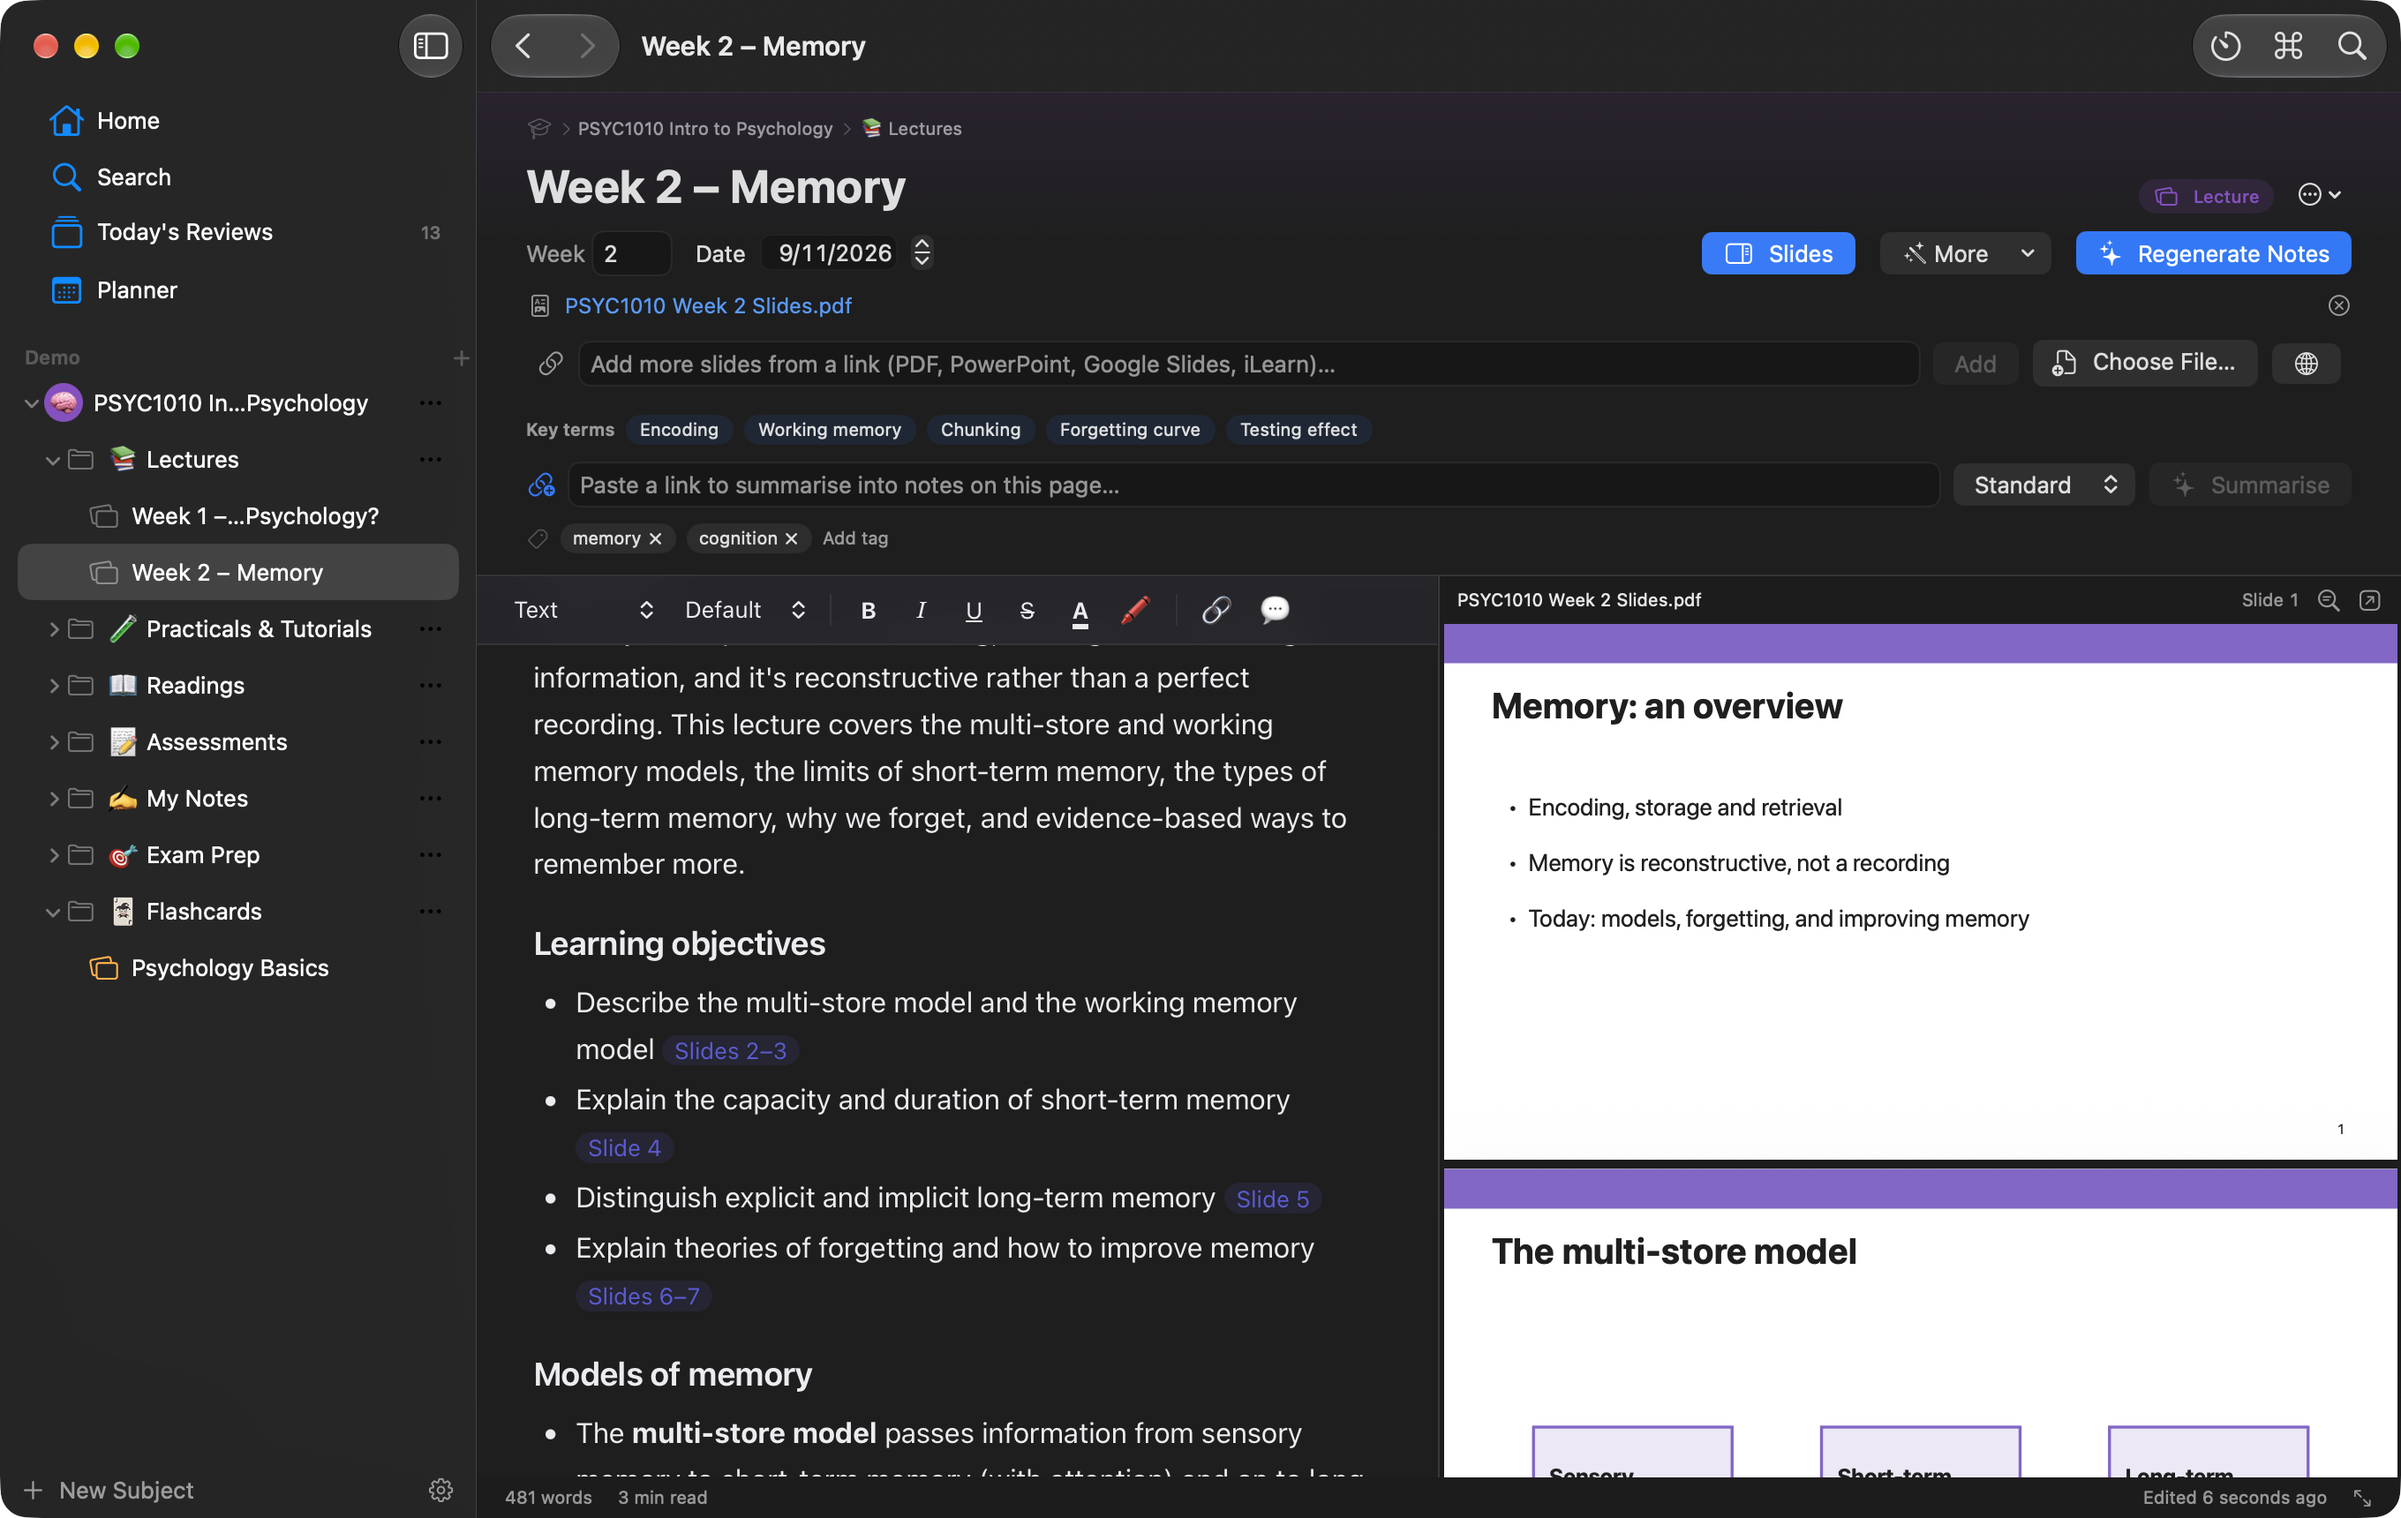
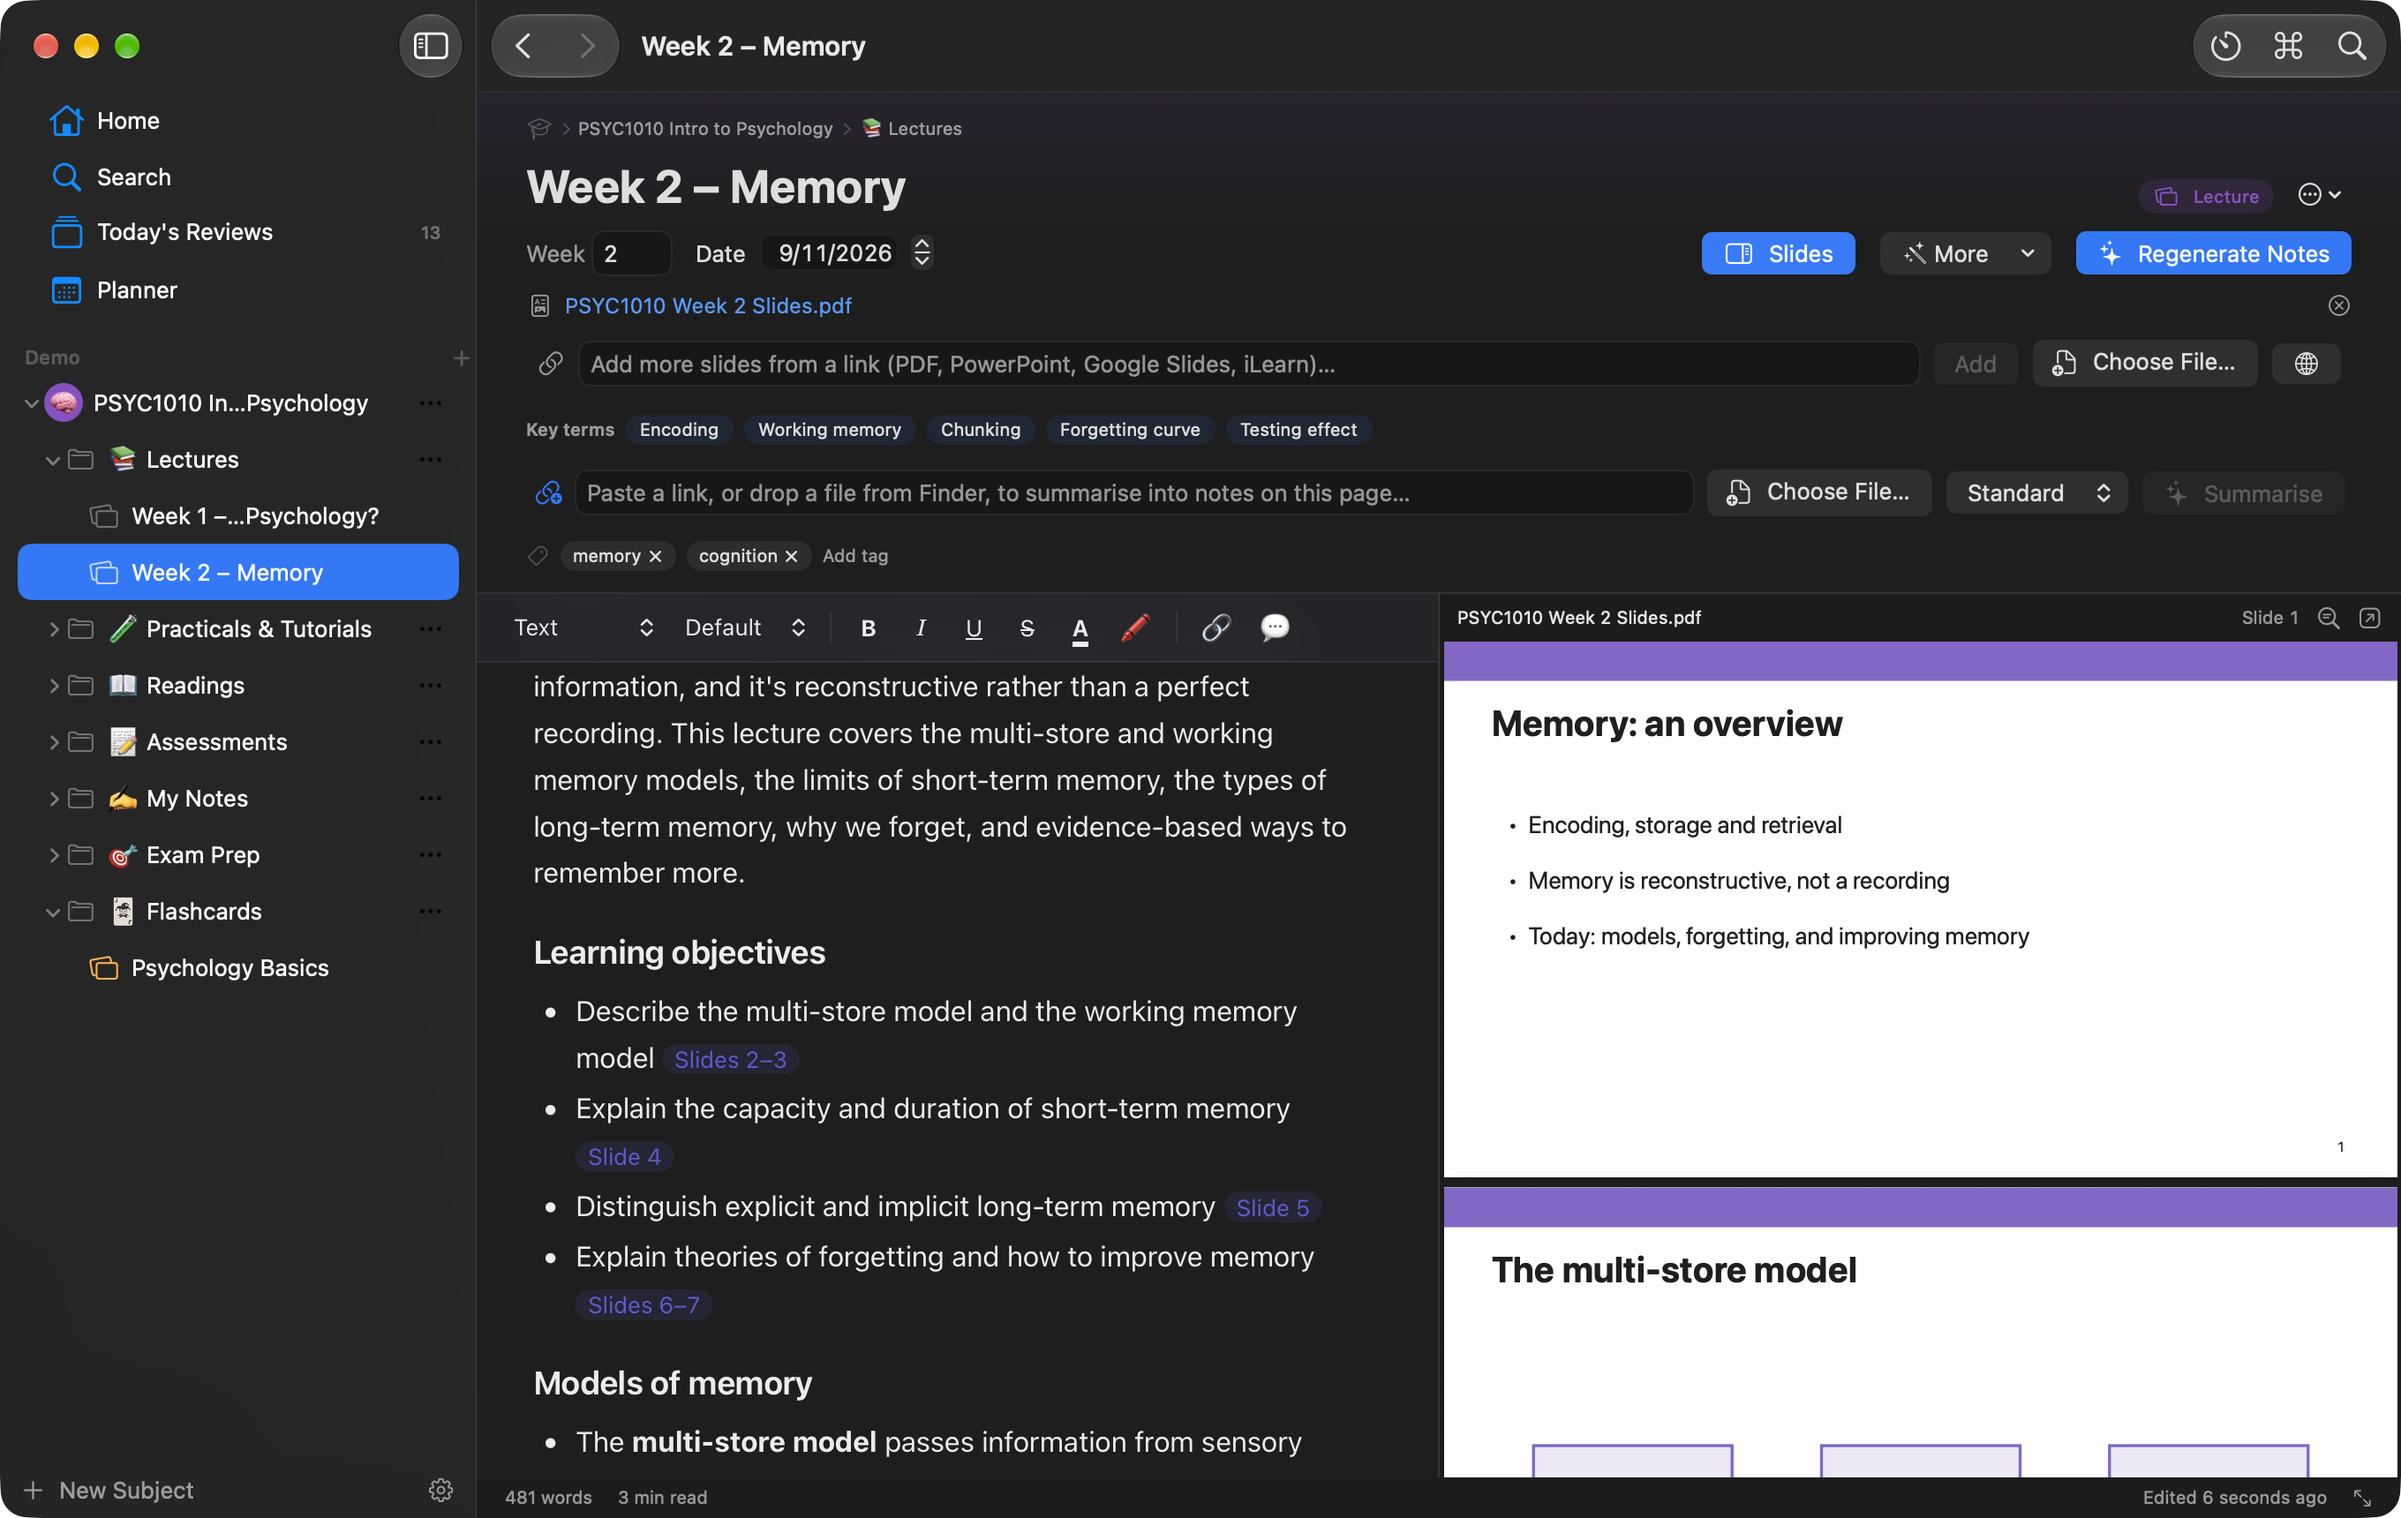
Release 1.3.0

diff --git a/release-notes/1.3.0.html b/release-notes/1.3.0.html
@@ -1,0 +1,4 @@
+<!doctype html><html><head><meta charset="utf-8"><title>Lectern 1.3.0</title>
+<style>body{font:13px -apple-system,sans-serif;margin:16px;color:#222}h2{margin:0 0 4px}h3{margin:14px 0 4px;color:#7a5af0}
+li{margin:3px 0}@media (prefers-color-scheme:dark){body{color:#eee;background:#1e1e1e}}</style></head>
+<body><h2>Lectern 1.3.0</h2><p>Summarise files from your Mac, not just links</p><h3>Added</h3><ul><li>“Notes from a link” now takes files from your Mac too: click Choose File… (several at once), drag files from Finder onto the bar, or paste a file&#x27;s path. PDF, PowerPoint, Word, text and web-page files are summarised into notes at the bottom of the page, and a copy is kept in the subject&#x27;s _attachments folder.</li></ul></body></html>
